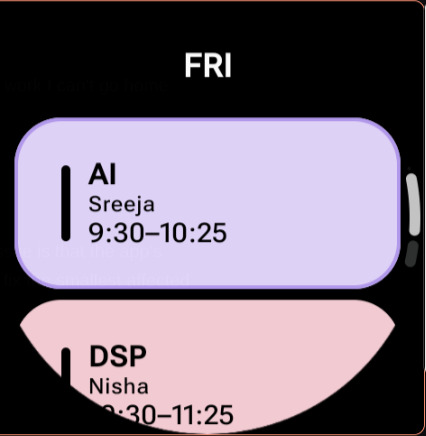
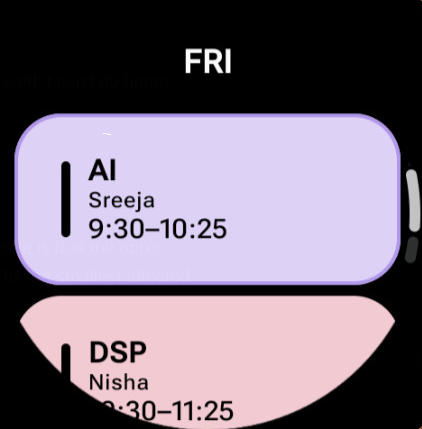
Align Wear OS package with Play Store app

diff --git a/wear-os/AGENTS.md b/wear-os/AGENTS.md
@@ -5,12 +5,12 @@ Native Kotlin/Compose Wear OS app for the timetable and tile experience.
 ## Layout
 
 - `app/src/main/java/com/codialo/bunkialo/` contains the app, timetable, tile, and complication code.
-- `app/build.gradle.kts` defines the `com.codialo.bunkialo` application and its release signing requirements.
+- `app/build.gradle.kts` defines the `com.codialo.Bunkialo2` application ID and its release signing requirements. The Kotlin namespace remains `com.codialo.bunkialo`.
 - `scripts/` contains operator commands for deploying to the connected watch.
 
 ## Operator scripts
 
 - `./scripts/deploy-prod` builds the signed release APK, discovers the Wear OS watch through ADB mDNS, removes the installed package, and installs the release APK.
 - `./scripts/deploy-dev` builds the debug APK, discovers the Wear OS watch through ADB mDNS, removes the installed package, and installs the debug APK.
-- Both scripts intentionally use the package ID `com.codialo.bunkialo` and never hardcode a watch IP address or serial.
+- Both scripts intentionally use the package ID `com.codialo.Bunkialo2` and never hardcode a watch IP address or serial.
 - Production deployment requires `NEAROS_EAS_KEYSTORE_PATH`, `NEAROS_EAS_STORE_PASSWORD`, `NEAROS_EAS_KEY_ALIAS`, and `NEAROS_EAS_KEY_PASSWORD`.

diff --git a/README.md b/README.md
@@ -44,7 +44,7 @@ Download the latest Android development APK from the [GitHub Releases page](http
 
 ## Wear OS app
 
-The native Wear OS timetable extension lives in [`wear-os/`](wear-os/). It is a separate Kotlin/Compose app inside this repository, using the package `com.codialo.bunkialo`.
+The native Wear OS timetable extension lives in [`wear-os/`](wear-os/). It is a separate Kotlin/Compose app inside this repository, using the same Play Store application ID as the phone app: `com.codialo.Bunkialo2`. Its internal Kotlin namespace remains `com.codialo.bunkialo`.
 
 ![Bunkialo Wear OS timetable](docs/images/wear-os-timetable.png)
 

diff --git a/AGENTS.md b/AGENTS.md
@@ -347,8 +347,9 @@ components/
 
 ### Wear OS timetable extension
 
-1. The native Wear OS Gradle app lives under `wear-os/` and uses package ID
-   `com.codialo.bunkialo`.
+1. The native Wear OS Gradle app lives under `wear-os/` and uses the same Play
+   Store application ID as the phone app: `com.codialo.Bunkialo2`. Its internal
+   Kotlin namespace remains `com.codialo.bunkialo`.
 2. The built-in timetable in `wear-os/app/src/main/java/com/codialo/bunkialo/schedule/Timetable.kt`
    is the default and reset target.
 3. The phone-side `modules/wear-timetable` Expo module sends only the selected timetable
